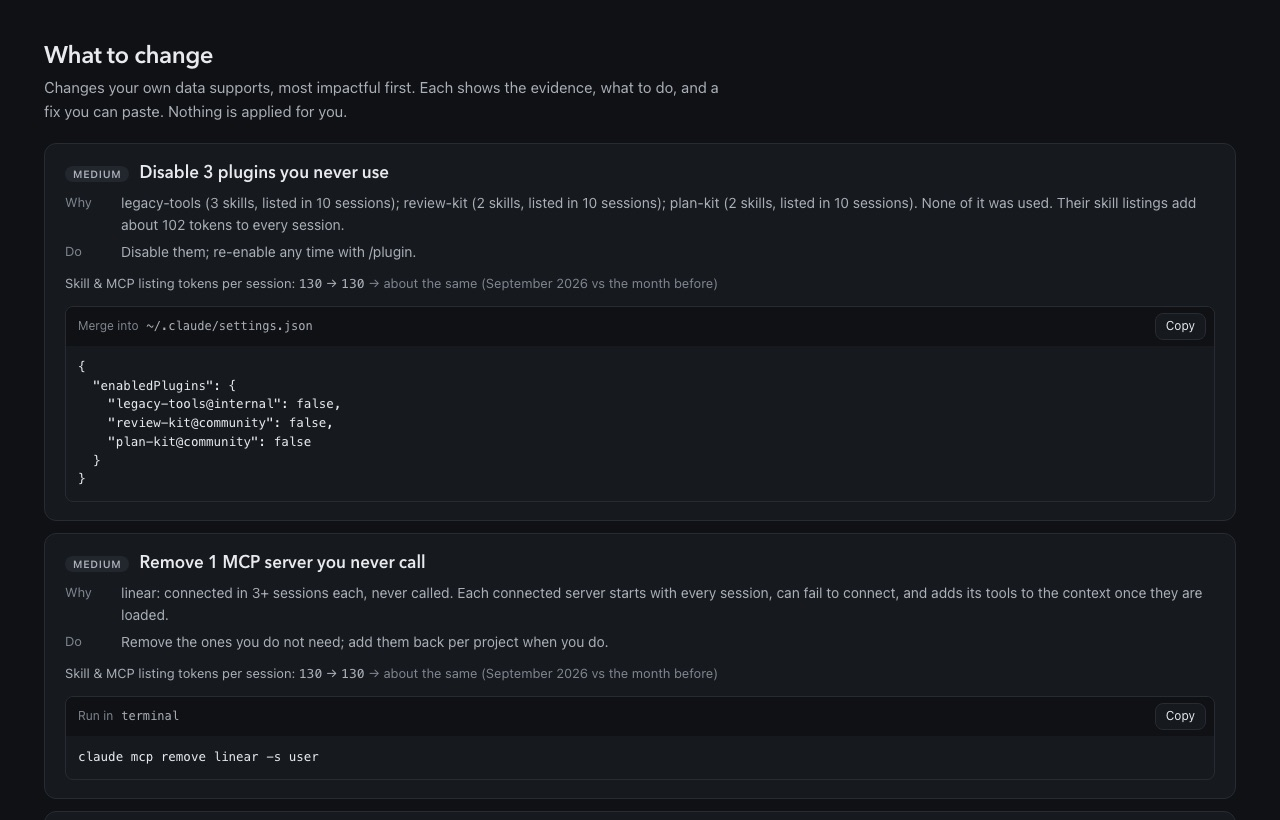
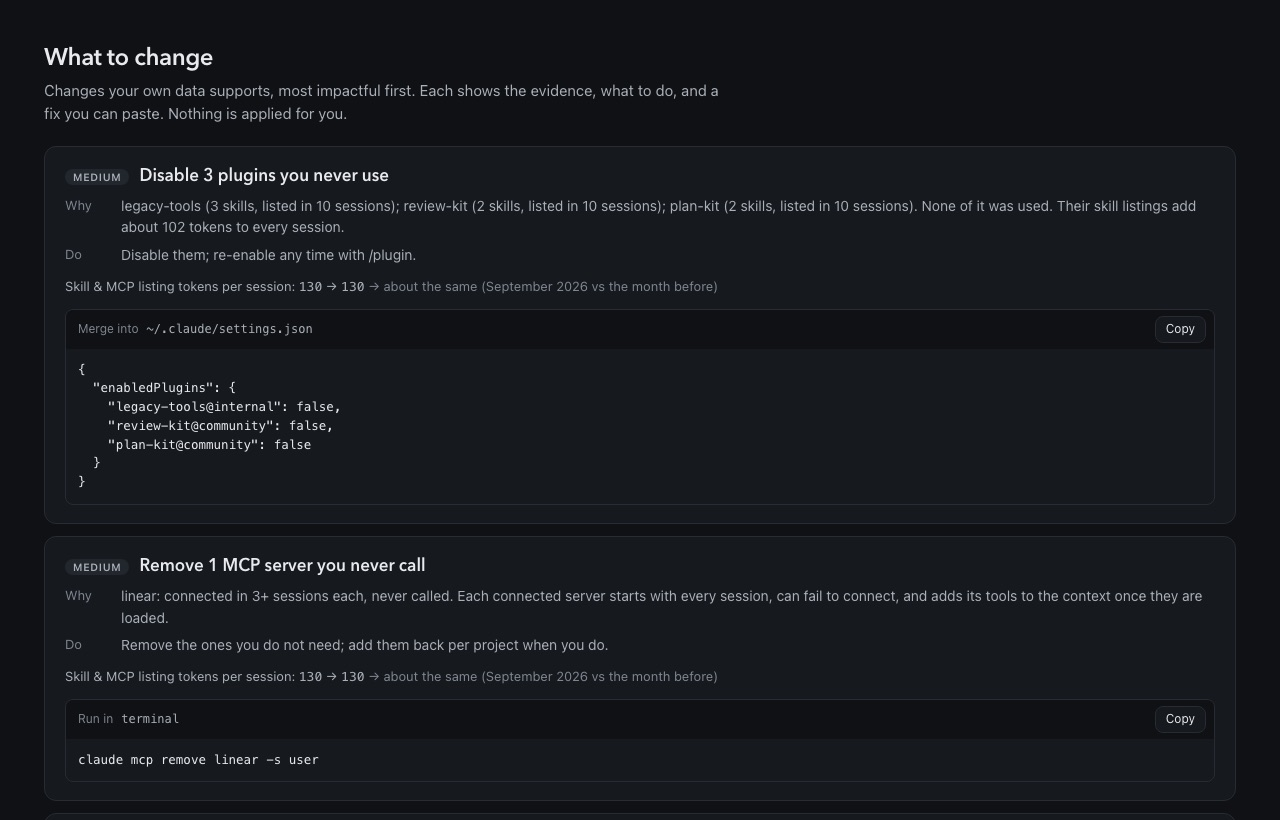
Rename the retro to a monthly review in plain words
The retro page, terminal report and markdown now read as a monthly (or
cycle) review: Went well, Didn't go well, Change (each item tagged start
or stop), Do next with one experiment, and Did it work? for the last
saved review. Team-ritual terms (Start/Stop columns, Action items,
Kaizen) are gone.

The exported retro follows the same shape: `change`, `experiment` and
`followUp` replace `start`, `stop` and `kaizen`. The --retro and
--save-retro flags and the get_retro MCP tool keep their names.

diff --git a/ui/index.html b/ui/index.html
@@ -322,19 +322,21 @@
   .digest li b { color: var(--ink); }
   .digest .tools { display: flex; gap: 8px; flex-wrap: wrap; margin-top: 22px; }
 
-  /* Retro board ------------------------------------------------------------------ */
+  /* Review board ----------------------------------------------------------------- */
   .card { margin: 24px 0 18px; padding: 18px 20px; border: 1px solid var(--rule); border-radius: 14px; background: var(--surface); }
   .card .nums { display: grid; grid-template-columns: repeat(auto-fit, minmax(130px, 1fr)); gap: 12px; }
   .card .nums div b { display: block; font: 600 26px/1.15 var(--display); letter-spacing: -0.02em; }
   .card .nums div span { font-size: 12.5px; color: var(--ink-3); }
   .card p { margin: 14px 0 0; font: 500 16px/1.45 var(--display); color: var(--ink); max-width: 80ch; }
-  .board { display: grid; grid-template-columns: repeat(4, minmax(0, 1fr)); gap: 12px; }
+  .board { display: grid; grid-template-columns: repeat(3, minmax(0, 1fr)); gap: 12px; }
   @media (max-width: 1100px) { .board { grid-template-columns: repeat(2, minmax(0, 1fr)); } }
   @media (max-width: 640px) { .board { grid-template-columns: 1fr; } }
   .col { background: var(--surface); border: 1px solid var(--rule); border-top: 3px solid var(--c); border-radius: 12px; padding: 14px 14px 6px; min-width: 0; }
   .col h3 { margin: 0 0 10px; font: 600 13px var(--display); letter-spacing: .04em; text-transform: uppercase; color: var(--ink-2); display: flex; justify-content: space-between; }
   .col h3 span { color: var(--ink-3); font-weight: 500; }
-  .col.good { --c: #2e8a63; } .col.bad { --c: var(--alert); } .col.start { --c: var(--signal); } .col.stop { --c: var(--ink-3); }
+  .col.good { --c: #2e8a63; } .col.bad { --c: var(--alert); } .col.change { --c: var(--signal); }
+  .note .kind, .digest .kind { display: inline-block; font: 600 10.5px var(--mono); letter-spacing: .05em; text-transform: uppercase; color: var(--ink-3); border: 1px solid var(--rule); border-radius: 5px; padding: 0 5px; margin-right: 6px; vertical-align: 1px; }
+  .note .kind.start, .digest .kind.start { color: var(--signal); border-color: color-mix(in srgb, var(--signal) 40%, transparent); }
   @media (prefers-color-scheme: dark) { .col.good { --c: #6fd3a4; } }
   .note { padding: 10px 0; border-top: 1px solid var(--rule); font-size: 13.5px; }
   .note:first-of-type { border-top: 0; padding-top: 2px; }
@@ -368,7 +370,7 @@
     <div class="brand">agent-retro</div>
     <nav class="tabs" aria-label="Pages">
       <a href="#home" data-page="home">Home</a>
-      <a href="#retro" data-page="retro">Retro</a>
+      <a href="#review" data-page="review">Review</a>
       <a href="#work" data-page="work">Work</a>
       <a href="#cost" data-page="cost">Cost</a>
       <a href="#setup" data-page="setup">Setup</a>
@@ -426,19 +428,19 @@
       <div class="peek panel" id="peek" aria-live="polite"></div>
       <div class="grid g2 gap">
         <div class="panel"><h3>Do next</h3><p class="hint">The changes with the most impact, from your own numbers. Each has a fix to paste.</p><ol class="actions" id="homeActions"></ol></div>
-        <div class="panel"><h3>Is it working?</h3><p class="hint">How the action items from your last saved retro moved.</p><div id="homeKaizen"></div></div>
+        <div class="panel"><h3>Is it working?</h3><p class="hint">How the actions from your last saved review moved.</p><div id="homeFollowUp"></div></div>
       </div>
     </section>
   </div>
-  <div class="page" id="page-retro" hidden>
-    <section id="retro-board" class="intro">
-      <h1 id="retroTitle">Retro</h1>
+  <div class="page" id="page-review" hidden>
+    <section id="review-board" class="intro">
+      <h1 id="retroTitle">Monthly review</h1>
       <p id="scope">Reading your local agent logs…</p>
       <div class="card" id="periodCard"></div>
       <div class="board" id="board"></div>
       <div class="grid g2 gap retro-foot">
-        <div class="panel"><h3>Action items</h3><p class="hint">The three changes with the most impact, each with a fix and the number that will show whether it worked.</p><ol class="actions" id="actions"></ol></div>
-        <div class="panel"><h3>Kaizen</h3><p class="hint">One small experiment, measured. Save the retro and the next one checks how its action items moved.</p><div id="kaizen"></div></div>
+        <div class="panel"><h3>Do next</h3><p class="hint">The three changes with the most impact, each with a fix and the number that will show whether it worked.</p><ol class="actions" id="actions"></ol><div id="experiment"></div></div>
+        <div class="panel"><h3>Did it work?</h3><p class="hint">Save this review, and the next one shows how its actions moved: baseline → now.</p><div id="followUp"></div></div>
       </div>
     </section>
 
@@ -811,7 +813,7 @@ function renderPeriod(a) {
   const cap = UNIT.charAt(0).toUpperCase() + UNIT.slice(1);
   document.querySelector('[data-scope=current]').textContent = `This ${UNIT}`;
   document.querySelector('[data-scope=last]').textContent = `Last ${UNIT}`;
-  $('retroTitle').textContent = `${cap}ly retro`.replace('Cyclely', 'Cycle');
+  $('retroTitle').textContent = UNIT === 'cycle' ? 'Cycle review' : 'Monthly review';
   if (p.cycle) { $('cycleStart').value = p.cycle.start; $('cycleDays').value = String(p.cycle.days); }
   $('cycleNow').textContent = p.cycle ? `Now: ${p.cycle.days}-day cycles from ${dateStr(p.cycle.start)}.` : 'Now: calendar months.';
 }
@@ -831,20 +833,20 @@ function renderSummary(a, sessions) {
       <div><b>${c.agentHours} h</b><span>of agent work</span></div>
       <div><b>${c.topTask ? esc(c.topTask.label) : '—'}</b><span>${c.topTask ? `main task, ${rate(c.topTask.share)} of sessions` : 'main task'}</span></div>
     </div><p>${esc(r.headline)}</p>`;
-  const COLS = [['wentWell', 'Went well', 'good'], ['didntGoWell', "Didn't go well", 'bad'], ['start', 'Start', 'start'], ['stop', 'Stop', 'stop']];
-  $('board').innerHTML = COLS.map(([k, title, cls]) => `<div class="col ${cls}"><h3>${title}<span>${r[k].length}</span></h3>${r[k].length ? r[k].map((it) => `<div class="note"><b>${esc(it.text)}</b>${it.detail ? `<span>${esc(it.detail)}</span>` : ''}<a href="#${it.recId ? 'rec-' + esc(it.recId) : esc(it.section)}">Details →</a></div>`).join('') : '<p class="empty">Nothing here this time.</p>'}</div>`).join('');
+  const COLS = [['wentWell', 'Went well', 'good'], ['didntGoWell', "Didn't go well", 'bad'], ['change', 'Change', 'change']];
+  $('board').innerHTML = COLS.map(([k, title, cls]) => `<div class="col ${cls}"><h3>${title}<span>${r[k].length}</span></h3>${r[k].length ? r[k].map((it) => `<div class="note"><b>${it.kind ? `<span class="kind ${it.kind}">${it.kind}</span>` : ''}${esc(it.text)}</b>${it.detail ? `<span>${esc(it.detail)}</span>` : ''}<a href="#${it.recId ? 'rec-' + esc(it.recId) : esc(it.section)}">Details →</a></div>`).join('') : '<p class="empty">Nothing here this time.</p>'}</div>`).join('');
   $('actions').innerHTML = r.actions.length ? r.actions.map((x, i) => `<li><b>${esc(x.title)}</b><button type="button" data-afix="${i}">Copy fix</button><small>${x.metric ? `Watch: ${esc(x.metric.label)}, now <strong>${esc(x.metric.display)}</strong>` : `Fix: ${esc(FIX_LABEL[x.fix.kind] || 'Fix')} ${esc(x.fix.target)}`}</small></li>`).join('') : '<p class="empty">No action items: nothing crossed a threshold.</p>';
   $('actions').querySelectorAll('[data-afix]').forEach((b) => b.addEventListener('click', async () => {
     try { await navigator.clipboard.writeText(r.actions[Number(b.dataset.afix)].fix.content); b.textContent = 'Copied'; } catch { b.textContent = 'Copy failed'; }
     setTimeout(() => { b.textContent = 'Copy fix'; }, 1600);
   }));
-  const k = r.kaizen;
   const mark = { better: '✅', worse: '❌', flat: '➖', unmeasured: '·' };
-  $('kaizen').innerHTML = (k.review ? `<div style="font-size:12.5px;color:var(--ink-3)">Since the retro saved ${esc(dateStr(k.review.savedAt.slice(0, 10)))}</div>` + k.review.items.map((it) => `<div class="kz-item"><i>${mark[it.verdict] || '·'}</i><div><b>${esc(it.title)}</b>${it.metric ? `<br><span style="color:var(--ink-3);font-size:12.5px">${esc(it.metric)}: ${esc(it.baseline)} → ${esc(it.now)} (${esc(it.verdict)})${it.stillOpen ? ' · still recommended' : ''}</span>` : ''}</div></div>`).join('') : '')
-    + (k.experiment ? `<div class="kz-exp"><b>Experiment for the next ${esc(k.experiment.span)}:</b> ${esc(k.experiment.title)}.<br>Measure ${esc(k.experiment.metric.label)}, now <b>${esc(k.experiment.metric.display)}</b>. Check with <code>${esc(k.experiment.check)}</code>.</div>` : '<p class="empty">No measurable experiment this time.</p>')
-    + `<div class="kz-save"><button type="button" id="saveRetro" class="primary">Save this retro</button> <span class="status" id="saveStatus" style="text-align:left"></span></div>`;
+  const x = r.experiment, f = r.followUp;
+  $('experiment').innerHTML = x ? `<div class="kz-exp"><b>Experiment for the next ${esc(x.span)}:</b> ${esc(x.title)}.<br>Measure ${esc(x.metric.label)}, now <b>${esc(x.metric.display)}</b>. Check with <code>${esc(x.check)}</code>.</div>` : '';
+  $('followUp').innerHTML = (f ? `<div style="font-size:12.5px;color:var(--ink-3)">Since the review saved ${esc(dateStr(f.savedAt.slice(0, 10)))}</div>` + f.items.map((it) => `<div class="kz-item"><i>${mark[it.verdict] || '·'}</i><div><b>${esc(it.title)}</b>${it.metric ? `<br><span style="color:var(--ink-3);font-size:12.5px">${esc(it.metric)}: ${esc(it.baseline)} → ${esc(it.now)} (${esc(it.verdict)})${it.stillOpen ? ' · still recommended' : ''}</span>` : ''}</div></div>`).join('') : '<p class="empty">No saved review yet.</p>')
+    + `<div class="kz-save"><button type="button" id="saveRetro" class="primary">Save this review</button> <span class="status" id="saveStatus" style="text-align:left"></span></div>`;
   $('saveRetro').addEventListener('click', async () => {
-    try { await postJson('/api/retro/save?' + query(), {}); $('saveStatus').textContent = 'Saved. The next retro will review these action items.'; }
+    try { await postJson('/api/retro/save?' + query(), {}); $('saveStatus').textContent = 'Saved. The next review shows how these actions went.'; }
     catch (e) { $('saveStatus').textContent = 'Could not save: ' + e.message; }
   });
 }
@@ -1285,7 +1287,7 @@ let keepSession = null;
 
 /* ---- section rail ---- */
 /* ---- pages: #home, #cost, … or any element id, which opens the page that holds it ---- */
-const PAGES = ['home', 'retro', 'work', 'cost', 'setup', 'habits', 'sessions', 'digest'];
+const PAGES = ['home', 'review', 'work', 'cost', 'setup', 'habits', 'sessions', 'digest'];
 function route() {
   const id = decodeURIComponent(location.hash.slice(1)) || 'home';
   const el = !PAGES.includes(id) && document.getElementById(id);
@@ -1379,25 +1381,26 @@ function renderHome(a) {
     try { await navigator.clipboard.writeText(recs[Number(b.dataset.hfix)].fix.content); b.textContent = 'Copied'; } catch { b.textContent = 'Copy failed'; }
     setTimeout(() => { b.textContent = 'Copy fix'; }, 1600);
   }));
-  const k = r ? r.kaizen : null;
+  const f = r ? r.followUp : null, x = r ? r.experiment : null;
   const mark = { better: '✅', worse: '❌', flat: '➖', unmeasured: '·' };
-  $('homeKaizen').innerHTML = k && k.review ? k.review.items.map((it) => `<div class="kz-line"><span>${mark[it.verdict] || '·'}</span><div><b>${esc(it.title)}</b><br><span style="color:var(--ink-3);font-size:12.5px">${it.metric ? `${esc(it.metric)}: ${esc(it.baseline)} → ${esc(it.now)}` : 'not measured'}</span></div></div>`).join('') + '<p style="margin:10px 0 0"><a href="#retro-board">Full retro →</a></p>'
-    : `<p class="empty">No saved retro yet. Open the <a href="#retro-board">retro</a> and choose “Save this retro”; next ${UNIT} this box shows what changed.</p>${k && k.experiment ? `<p style="font-size:13.5px;margin:10px 0 0">Experiment to try: <b>${esc(k.experiment.title)}</b> (${esc(k.experiment.metric.label)}, now ${esc(k.experiment.metric.display)}).</p>` : ''}`;
+  $('homeFollowUp').innerHTML = f ? f.items.map((it) => `<div class="kz-line"><span>${mark[it.verdict] || '·'}</span><div><b>${esc(it.title)}</b><br><span style="color:var(--ink-3);font-size:12.5px">${it.metric ? `${esc(it.metric)}: ${esc(it.baseline)} → ${esc(it.now)}` : 'not measured'}</span></div></div>`).join('') + '<p style="margin:10px 0 0"><a href="#review-board">Full review →</a></p>'
+    : `<p class="empty">No saved review yet. Open the <a href="#review-board">review</a> and choose “Save this review”; next ${UNIT} this box shows what changed.</p>${x ? `<p style="font-size:13.5px;margin:10px 0 0">Experiment to try: <b>${esc(x.title)}</b> (${esc(x.metric.label)}, now ${esc(x.metric.display)}).</p>` : ''}`;
 }
 const firstSentence = (t) => { const m = /^[\s\S]*?[.!?](\s|$)/.exec(t || ''); return (m ? m[0] : t || '').trim(); };
 
-/* ---- Digest: the retro as a short report to share ---- */
+/* ---- Summary: the review as a short report to read ---- */
 function renderDigest(a) {
   const r = a.retro;
   if (!r) { $('digest').innerHTML = '<p class="empty">Nothing to summarise yet.</p>'; return; }
   const li = (list) => (list.length ? `<ul>${list.map((it) => `<li><b>${esc(it.text)}</b>${it.detail ? ` ${esc(it.detail)}` : ''}</li>`).join('')}</ul>` : `<p class="empty">Nothing this ${r.period.unit}.</p>`);
-  const k = r.kaizen;
+  const f = r.followUp;
   $('digest').innerHTML = `<p class="eyebrow">${esc(r.period.unit === 'month' ? r.period.name : `${dateStr(r.period.from)} – ${dateStr(r.period.to)}`)}${r.period.current ? ' (in progress)' : ''} · ${r.card.sessions} sessions${r.card.spend ? ' · $' + Math.round(r.card.spend) : ''} · ${r.card.agentHours} h</p>
     <h2>${esc(r.verdict)}</h2><p>${esc(r.headline)}</p>
     <h3>What went well</h3>${li(r.wentWell)}
     <h3>What didn't</h3>${li(r.didntGoWell)}
-    <h3>Try next ${esc(r.period.unit)}</h3>${r.actions.length ? `<ol>${r.actions.map((x) => `<li><b>${esc(x.title)}</b>${x.metric ? ` Watch ${esc(x.metric.label)} (now ${esc(x.metric.display)}).` : ''}</li>`).join('')}</ol>` : '<p class="empty">No action items.</p>'}
-    ${k.review ? `<h3>Experiments from the last saved retro</h3><ul>${k.review.items.map((it) => `<li><b>${esc(it.title)}</b>${it.metric ? `: ${esc(it.metric)} ${esc(it.baseline)} → ${esc(it.now)} (${esc(it.verdict)})` : ''}</li>`).join('')}</ul>` : ''}
+    <h3>What to change</h3>${r.change.length ? `<ul>${r.change.map((it) => `<li><b><span class="kind ${it.kind}">${it.kind}</span>${esc(it.text)}</b>${it.detail ? ` ${esc(it.detail)}` : ''}</li>`).join('')}</ul>` : '<p class="empty">Nothing to change.</p>'}
+    <h3>Try next ${esc(r.period.unit)}</h3>${r.actions.length ? `<ol>${r.actions.map((x) => `<li><b>${esc(x.title)}</b>${x.metric ? ` Watch ${esc(x.metric.label)} (now ${esc(x.metric.display)}).` : ''}</li>`).join('')}</ol>` : '<p class="empty">Nothing to do next.</p>'}
+    ${f ? `<h3>Did it work?</h3><ul>${f.items.map((it) => `<li><b>${esc(it.title)}</b>${it.metric ? `: ${esc(it.metric)} ${esc(it.baseline)} → ${esc(it.now)} (${esc(it.verdict)})` : ''}</li>`).join('')}</ul>` : ''}
     <div class="tools"><button type="button" class="primary" id="copyMd">Copy as markdown</button><span class="status" id="copyStatus" style="text-align:left">Keep it in your notes, or next to the code.</span></div>`;
   $('copyMd').addEventListener('click', async () => {
     try { const md = await fetch('/api/retro.md?' + query()).then((x) => x.text()); await navigator.clipboard.writeText(md); $('copyStatus').textContent = 'Copied.'; }

diff --git a/README.md b/README.md
@@ -31,8 +31,8 @@ From a clone: `node agent-retro.mjs …` takes the same flags.
 also where the screenshots below come from.
 
 ![Home: a one-line verdict, five areas with a status, a peek at the one you pick, what to do next and whether last month's changes worked](docs/images/home.jpg)
-![Your monthly retro: period card and Went well / Didn't go well / Start / Stop](docs/images/retro.jpg)
-![Action items with fixes, and Kaizen reviewing the last saved retro](docs/images/retro-actions.jpg)
+![Your monthly review: period card and Went well / Didn't go well / Change](docs/images/review.jpg)
+![Do next with fixes and an experiment, and Did it work? for the last saved review](docs/images/review-actions.jpg)
 ![What to change: recommendations with evidence and a fix to paste](docs/images/what-to-change.jpg)
 ![Extensions: plugins, skills, MCP servers and hooks, loaded versus used](docs/images/extensions.jpg)
 
@@ -82,10 +82,10 @@ at a median of 14 turns, mostly by hand with `git diff`".
 The rules are the `TASKS` table in `sessions.mjs`, one row per task. See
 [CONTRIBUTING.md](CONTRIBUTING.md).
 
-## The retro
+## The monthly review
 
-The retro is a personal review of one period of your agent use, a calendar month by default,
-compared with the month before:
+The review looks back at one period of your agent use, a calendar month by default, compared
+with the month before:
 
 - **Period card:** sessions, spend, agent hours, main task, and a one-line verdict ("biggest win,
   biggest drag"). With fewer than 5 sessions it says there are too few to judge, rather than
@@ -93,12 +93,14 @@ compared with the month before:
 - **Went well:** metrics that improved on the month before, prompt practices that work for you,
   clean risk signals.
 - **Didn't go well:** the patterns worth acting on, and metrics that got worse.
-- **Start / Stop:** the recommendations, split into habits to add and things to remove.
-- **Action items:** the top three changes, each with a fix to paste and the metric to watch.
-- **Kaizen:** one measured experiment. **Save this retro** (or `--save-retro`), and the next
-  retro reviews each saved action item: baseline → now, better or worse.
+- **Change:** the recommendations, each tagged *start* (a habit to add) or *stop* (something to
+  remove).
+- **Do next:** the top three changes, each with a fix to paste and the metric to watch, plus one
+  experiment to measure over the next month.
+- **Did it work?** **Save this review** (or `--save-retro`), and the next review shows each saved
+  action: baseline → now, better or worse.
 
-**Review periods.** Periods are calendar months. The retro reviews the last **completed** month
+**Review periods.** Periods are calendar months. The review covers the last **completed** month
 and compares it with the one before; `--period <date>` reviews the period containing any date.
 If your work runs in fixed cycles instead, give any cycle's first day and its length, under
 *Settings* in the dashboard or:
@@ -120,8 +122,8 @@ To keep it as markdown, in your notes or next to the code:
 npx agent-retro --retro --md
 ```
 
-Saved retros live in `~/.agent-retro/retros/`. They hold action ids and metric baselines only,
-never prompt text. `get_retro` on the MCP server returns the same retro, for "how did my agent use go
+Saved reviews live in `~/.agent-retro/retros/`. They hold action ids and metric baselines only,
+never prompt text. `get_retro` on the MCP server returns the same review, for "how did my agent use go
 last month?" in Claude Code.
 
 ## Prompt practices
@@ -245,7 +247,7 @@ claude mcp add agent-retro -- node /path/to/agent-retro.mjs --mcp --all-agents
 | `get_session` | One record by id |
 | `get_task_profile` | One task's stats plus the ids of its costliest and longest sessions |
 | `get_recommendations` | The recommendations above, with evidence and fixes, for the agent to present to you |
-| `get_retro` | The retro for one period: card, Went well / Didn't go well / Start / Stop, action items and Kaizen |
+| `get_retro` | The review of one period: card, Went well / Didn't go well / Change, Do next, the experiment and Did it work? |
 | `get_extensions` | Plugins, skills, MCP servers, hooks and slash commands, optionally filtered by kind or verdict |
 
 It speaks JSON-RPC 2.0 over stdio with no SDK dependency. It serves exactly the same views as the
@@ -285,8 +287,8 @@ period.
 - **Home** answers three questions on one screen. *How am I doing?* A one-line verdict, then five
   areas (cost, context, reliability, prompting, setup), each marked good, watch or act. Pick an area
   to peek at its chart without leaving Home. *What should I change?* The top three changes, each
-  with a fix to copy. *Is it working?* How the action items from your last saved retro moved.
-- **Retro.** The period card, Went well / Didn't go well / Start / Stop, action items and Kaizen,
+  with a fix to copy. *Is it working?* How the actions from your last saved review moved.
+- **Review.** The period card, Went well / Didn't go well / Change, Do next and Did it work?,
   then every recommendation with its fix and the metrics compared with the month before.
 - **Work.** Tasks with per-session medians (select one to list its sessions, or open its
   playbook), how sessions go, and what the agent does: tools, why they fail, shell commands and
@@ -299,7 +301,7 @@ period.
   openings that could say more.
 - **Sessions.** Search, filter and sort every session, with a detail panel where you can correct
   its task label.
-- **Summary** turns the retro into a short report to read, with a button that copies it as
+- **Summary** turns the review into a short report to read, with a button that copies it as
   markdown.
 
 Every page and section is a link (`#cost`, `#extensions`, …).

diff --git a/CHANGELOG.md b/CHANGELOG.md
@@ -14,11 +14,12 @@
   - working and waiting time
   - risk signals
 - **Review periods:** calendar months by default, or fixed cycles (a start day plus a length).
-  The retro reviews the last completed period against the one before; fewer than 5 sessions is
+  The review covers the last completed period against the one before; fewer than 5 sessions is
   reported as too few to judge.
-- **Personal retro:** a period card; Went well / Didn't go well / Start / Stop; action items with
-  fixes and the metric to watch; and Kaizen, with a review of the last saved retro. Available in
-  the dashboard, as `--retro [--md]`, as `--save-retro`, and through the MCP tool `get_retro`.
+- **Monthly review:** a period card; Went well / Didn't go well / Change (start or stop); Do next,
+  with fixes, the metric to watch and one experiment; and Did it work?, for the last saved review.
+  Available in the dashboard, as `--retro [--md]`, as `--save-retro`, and through the MCP tool
+  `get_retro`.
 - **Recommendations:** evidence-backed rules, each with a fix you can paste:
   - unused plugins, skills and MCP servers
   - screenshots versus page text
@@ -38,7 +39,7 @@
   `--split <date>`.
 - **Local dashboard, reports and exports:**
   - a dashboard with a Home page (verdict, five areas with a status and a peek, what to do next,
-    whether last month's changes worked), focused pages for the retro, work, cost, setup, habits
+    whether last month's changes worked), focused pages for the review, work, cost, setup, habits
     and sessions, one time-period switch (this month, last month, all time), and a summary page
   - `--scope current|last|all` to limit the whole analysis to one period
   - terminal and markdown reports
